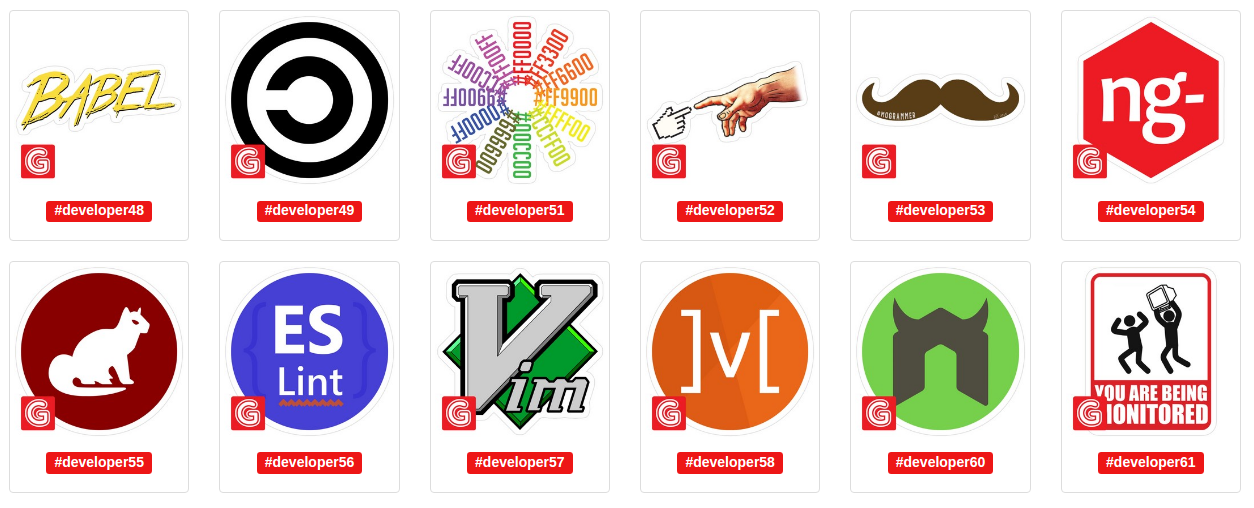
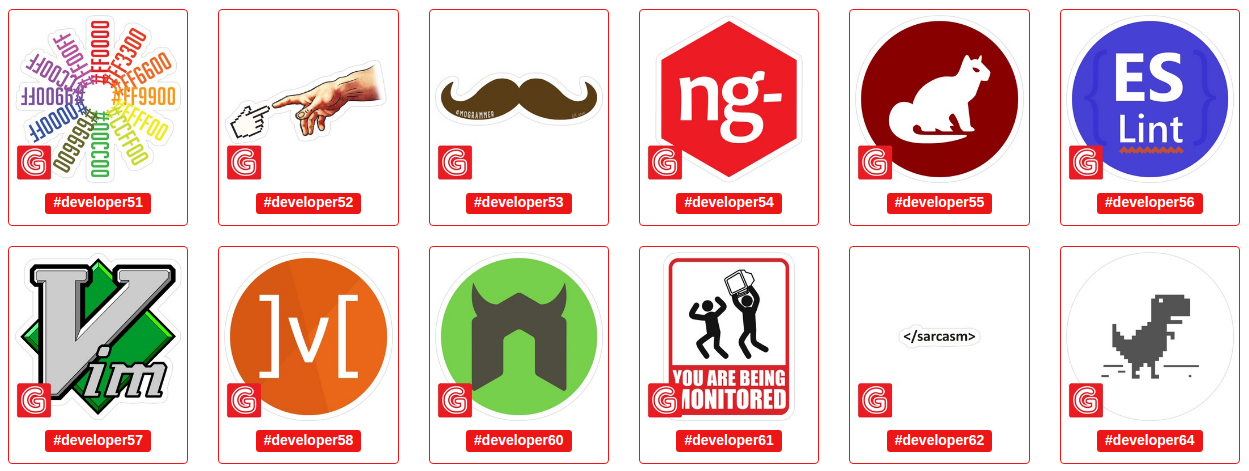
update files

diff --git a/detalle-mercadolibre.html b/detalle-mercadolibre.html
@@ -1,4 +1,5 @@
 <div style="width: 100%;">
+	<img src="https://raw.githubusercontent.com/nicolexyn/stickers/master/pasos-para-stickers.jpg" style="width: 100%;">
 	<img src="https://raw.githubusercontent.com/nicolexyn/stickers/master/dev-mercadolibre/dev1.png" style="width: 100%;">
 	<img src="https://raw.githubusercontent.com/nicolexyn/stickers/master/dev-mercadolibre/dev2.png" style="width: 100%;">
 	<img src="https://raw.githubusercontent.com/nicolexyn/stickers/master/dev-mercadolibre/dev3.png" style="width: 100%;">
@@ -22,4 +23,20 @@
 	<img src="https://raw.githubusercontent.com/nicolexyn/stickers/master/dev-mercadolibre/dev21.png" style="width: 100%;">
 	<img src="https://raw.githubusercontent.com/nicolexyn/stickers/master/dev-mercadolibre/dev22.png" style="width: 100%;">
 	<img src="https://raw.githubusercontent.com/nicolexyn/stickers/master/dev-mercadolibre/dev23.png" style="width: 100%;">
+	<img src="https://raw.githubusercontent.com/nicolexyn/stickers/master/dev-mercadolibre/dev24.png" style="width: 100%;">
+	<img src="https://raw.githubusercontent.com/nicolexyn/stickers/master/dev-mercadolibre/dev25.png" style="width: 100%;">
+	<img src="https://raw.githubusercontent.com/nicolexyn/stickers/master/dev-mercadolibre/dev26.png" style="width: 100%;">
+	<img src="https://raw.githubusercontent.com/nicolexyn/stickers/master/dev-mercadolibre/dev27.png" style="width: 100%;">
+	<img src="https://raw.githubusercontent.com/nicolexyn/stickers/master/dev-mercadolibre/dev28.png" style="width: 100%;">
+	<img src="https://raw.githubusercontent.com/nicolexyn/stickers/master/dev-mercadolibre/dev29.png" style="width: 100%;">
+	<img src="https://raw.githubusercontent.com/nicolexyn/stickers/master/dev-mercadolibre/dev30.png" style="width: 100%;">
+	<img src="https://raw.githubusercontent.com/nicolexyn/stickers/master/dev-mercadolibre/dev31.png" style="width: 100%;">
+	<img src="https://raw.githubusercontent.com/nicolexyn/stickers/master/dev-mercadolibre/dev32.png" style="width: 100%;">
+	<img src="https://raw.githubusercontent.com/nicolexyn/stickers/master/dev-mercadolibre/dev33.png" style="width: 100%;">
+	<img src="https://raw.githubusercontent.com/nicolexyn/stickers/master/dev-mercadolibre/dev34.png" style="width: 100%;">
+	<img src="https://raw.githubusercontent.com/nicolexyn/stickers/master/dev-mercadolibre/dev35.png" style="width: 100%;">
+	<img src="https://raw.githubusercontent.com/nicolexyn/stickers/master/dev-mercadolibre/dev36.png" style="width: 100%;">
+	<img src="https://raw.githubusercontent.com/nicolexyn/stickers/master/dev-mercadolibre/dev37.png" style="width: 100%;">
+	<img src="https://raw.githubusercontent.com/nicolexyn/stickers/master/dev-mercadolibre/dev38.png" style="width: 100%;">
+	<img src="https://raw.githubusercontent.com/nicolexyn/stickers/master/banner-formas-de-pago-y-envio.jpg" style="width: 100%;">
 </div>

diff --git a/prepararJson.html b/prepararJson.html
@@ -170,10 +170,10 @@
                                         <img src="https://github.com/nicolexyn/stickers/blob/master/eliminar.png?raw=true" ng-show="hover" alt="Eliminar" ng-click="removeStiker(sticker)">
                                         <img src="{{sticker.image}}" ng-show="!hover" alt="{{sticker.name}}">
                                         <div class="caption text-center" style="padding: 2px;">
-                                            <input class="form-control" type="text" name="" ng-model="sticker.image">
+                                            <!-- <input class="form-control" type="text" name="" ng-model="sticker.image">
                                             <input class="form-control" type="text" name="" ng-model="sticker.name">
-                                            <input class="form-control" type="text" name="" ng-model="sticker.codigo">
-                                            <!-- <h4><span class="label label-primary">#{{sticker.codigo}}</span></h4> -->
+                                            <input class="form-control" type="text" name="" ng-model="sticker.codigo"> -->
+                                            <h4><span class="label label-primary">#{{sticker.codigo}}</span></h4>
                                         </div>
                                     </div>
                                 </div>
